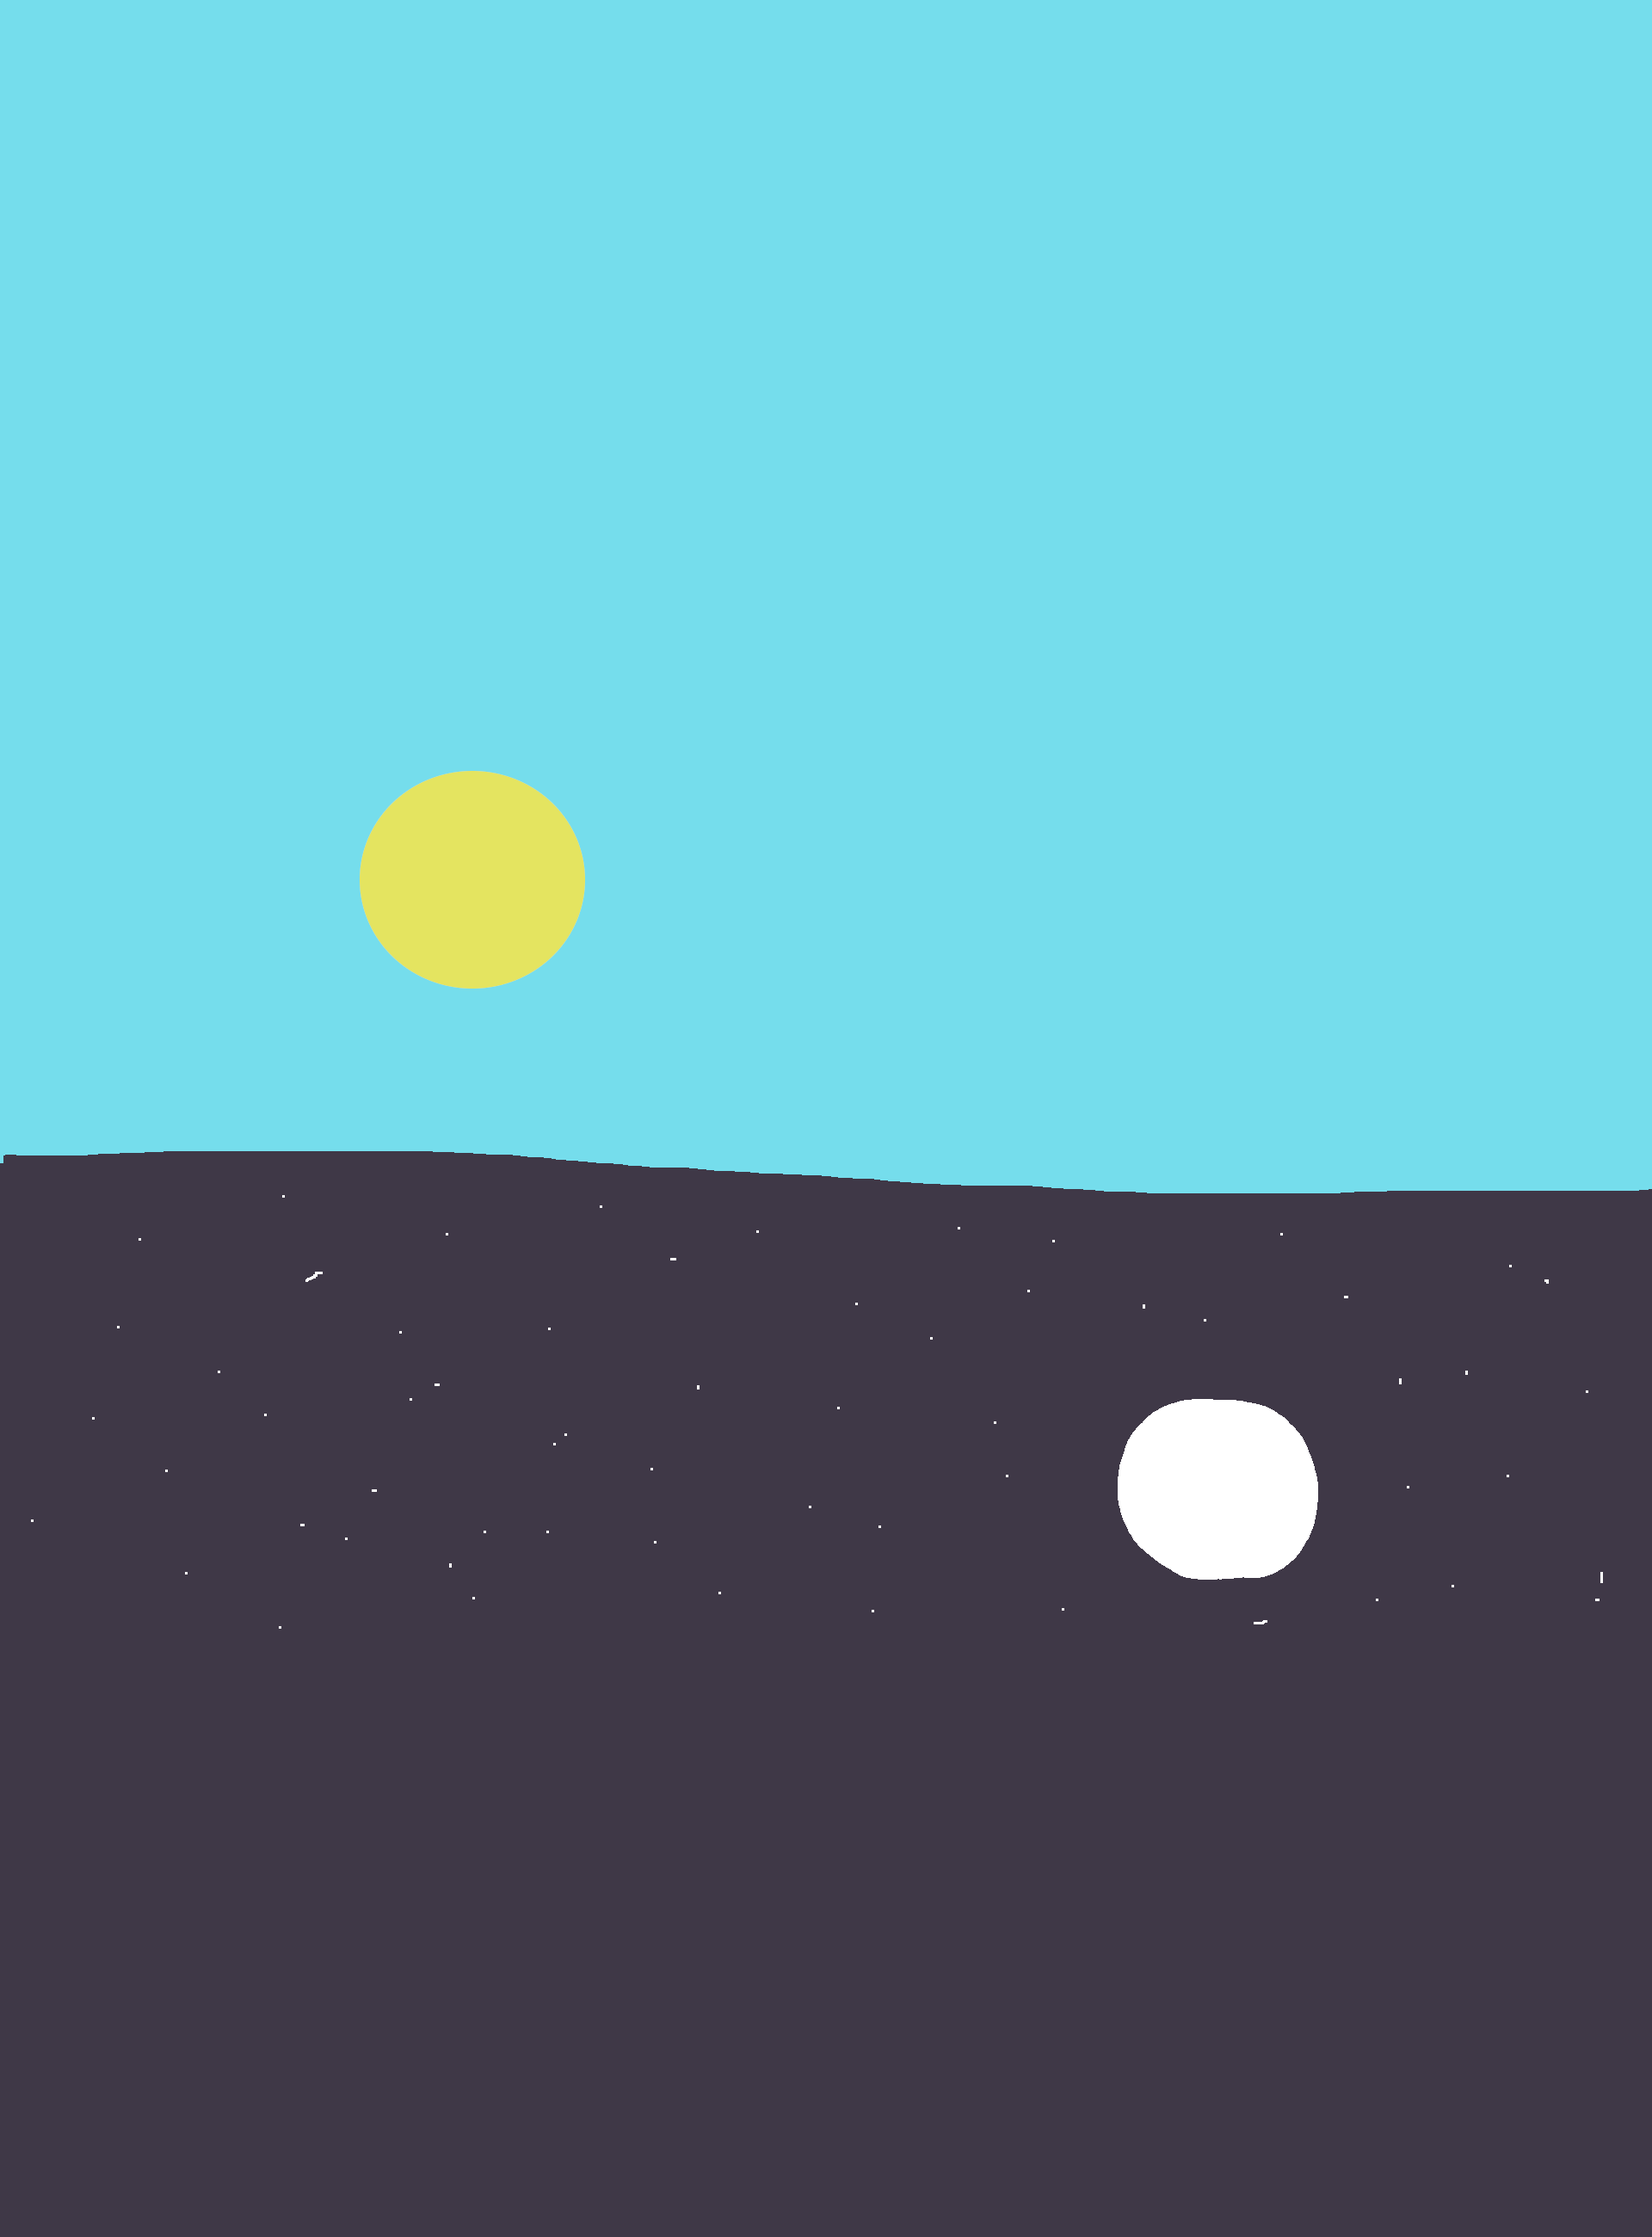
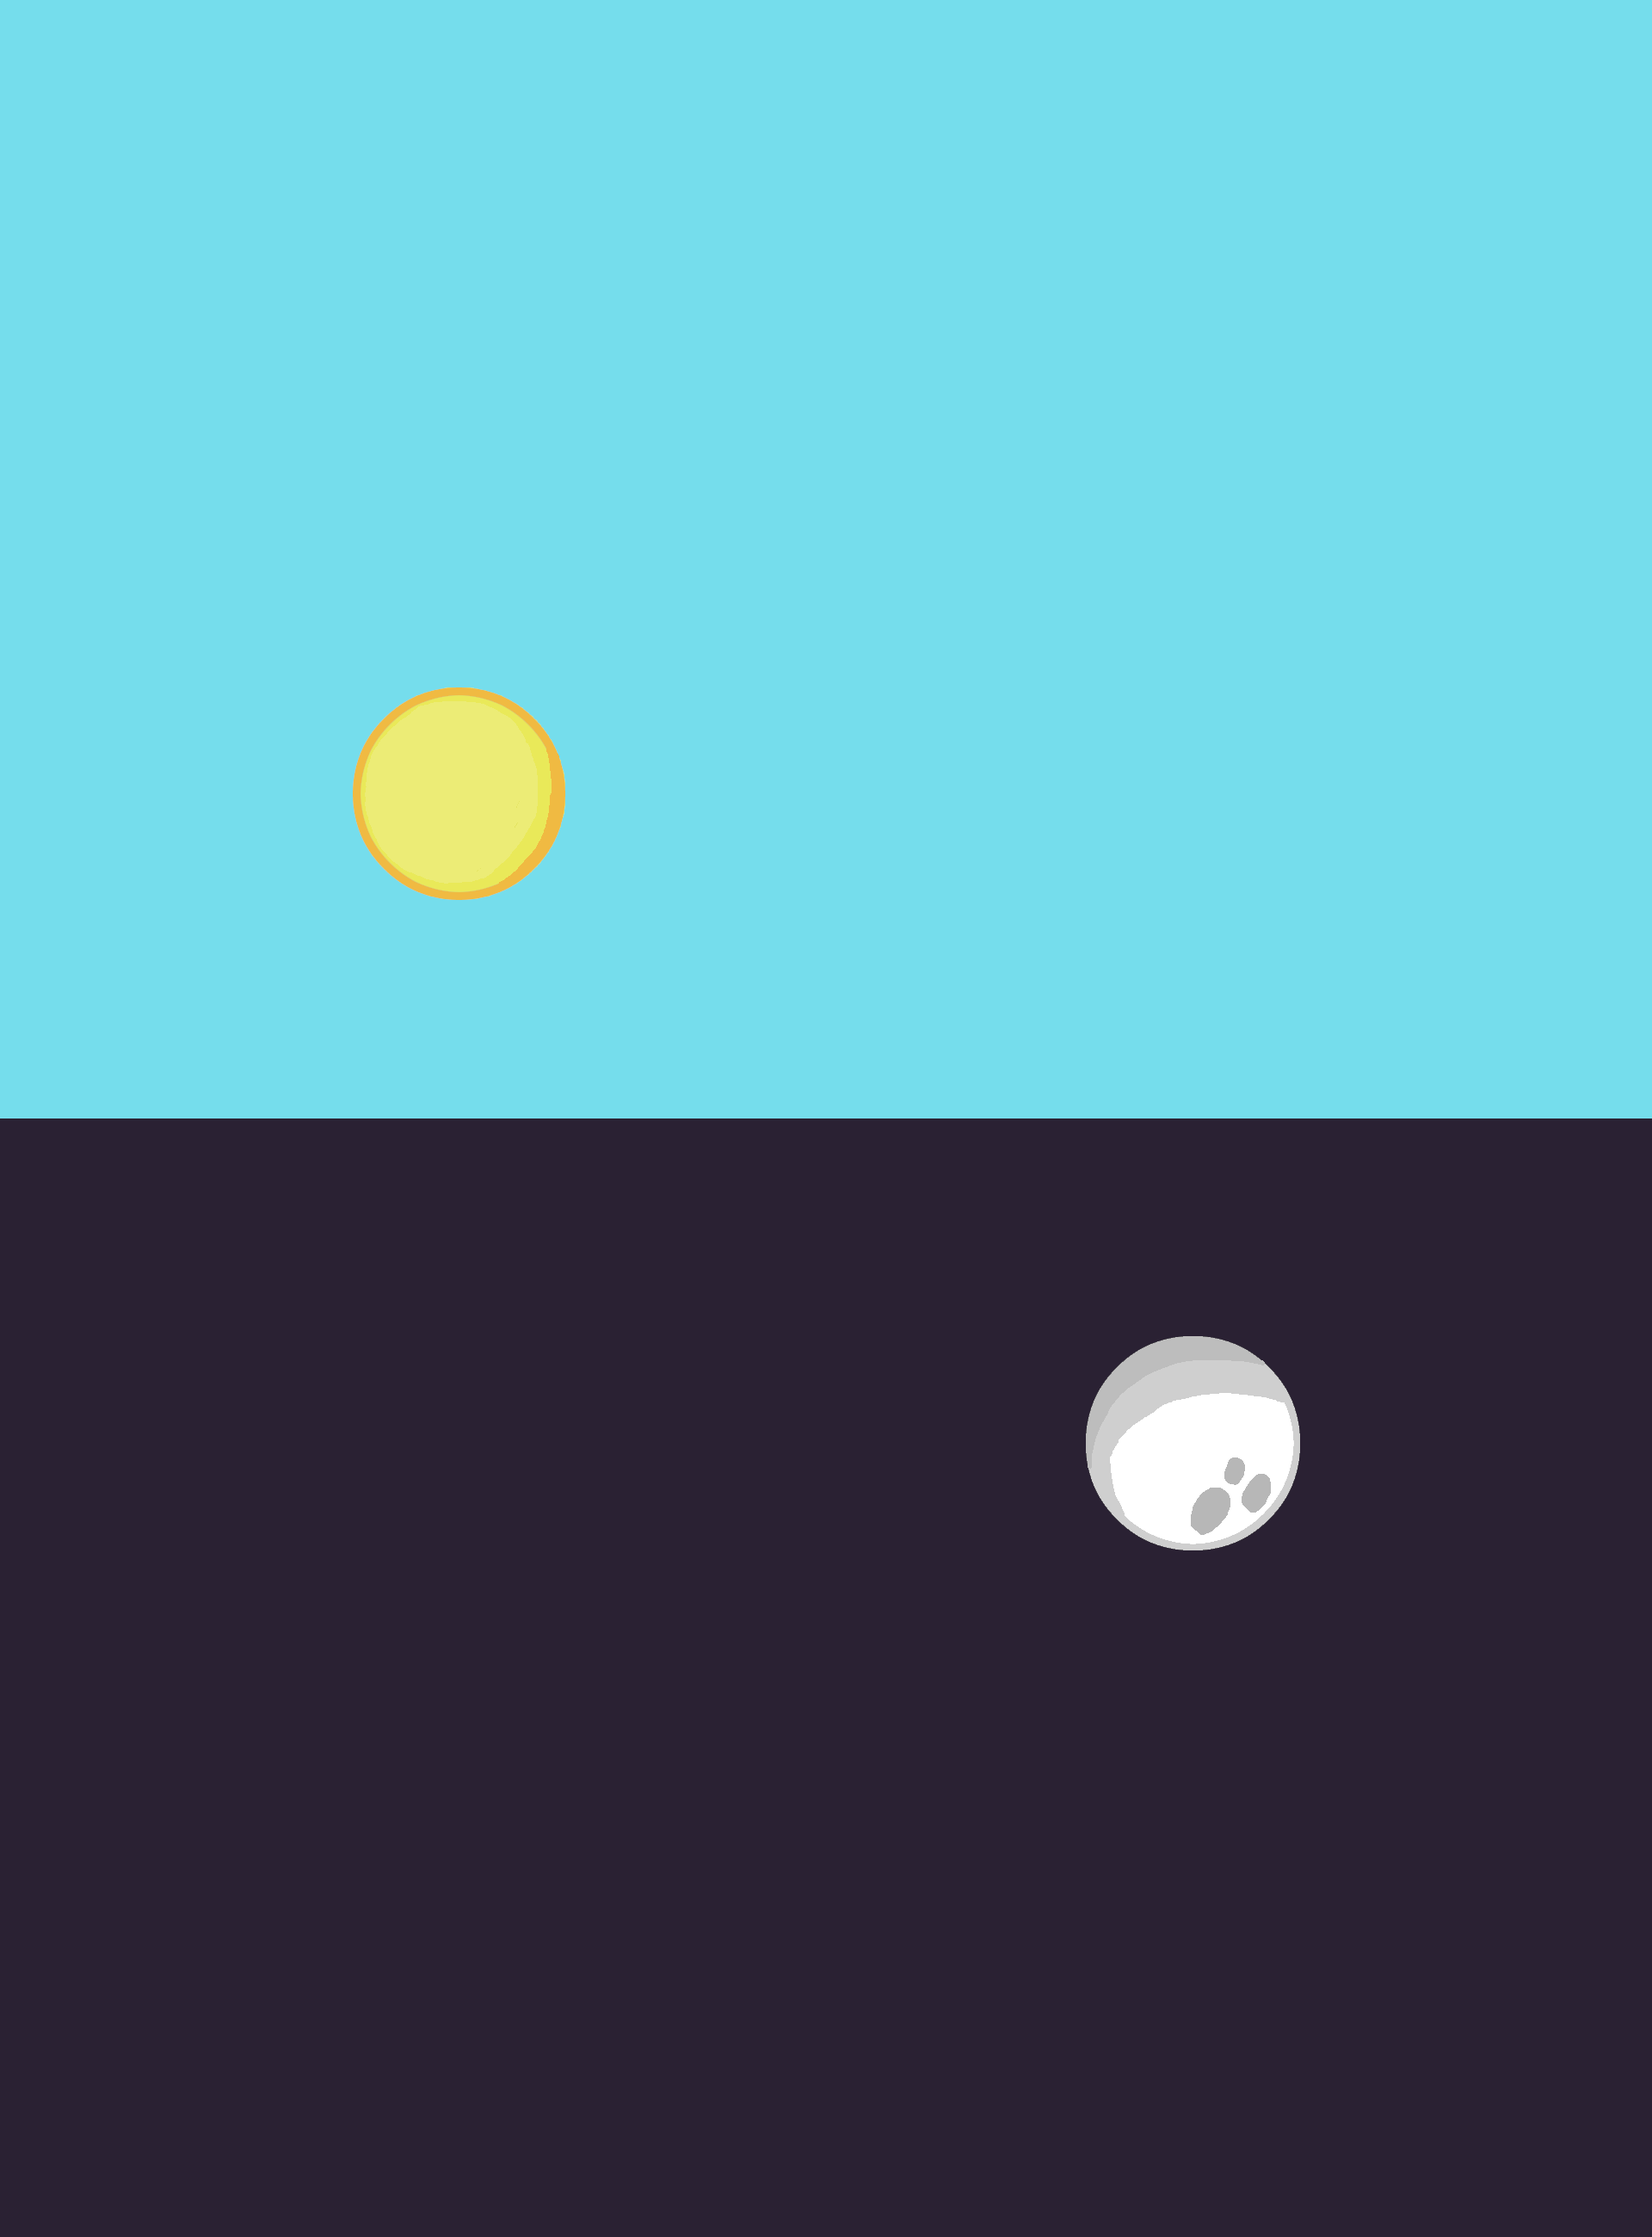
dark mode toggle button

Changed region(s): [[0.0, 0.4985, 1.0, 0.5608], [0.1875, 0.3115, 0.375, 0.4673], [0.6562, 0.5919, 0.8125, 0.7165]]

diff --git a/src/routes/+layout.svelte b/src/routes/+layout.svelte
@@ -2,11 +2,13 @@
     import { bounceOut } from "svelte/easing";
     import { elasticOut } from "svelte/easing";
     import { Tween } from "svelte/motion";
+    import { fade } from "svelte/transition";
     import NavBtn from './NavBtn.svelte';
 	let { children } = $props();
 
     const tabs = ["Main", "Socials", "Projects", "Art"];
     let darkMode = $state(false);
+    let canToggle = $state(true);
 
     
 
@@ -38,14 +40,23 @@
         filter: hue-rotate({tweenSpeen.current/3}deg) brightness({100-(tweenSpeen.current/540)*50}%);
     "/>
 
+    {#if tweenSpeen.current === 0 || tweenSpeen.current === 540 ? true : false}
+    <button id="darkModeToggle"
+     onclick={darkModeFlip}
+      style="filter: {darkMode ? "saturate(0%) contrast(75%) drop-shadow(0 0 5px #ffffff)" : "none"}" 
+      in:fade={{ duration: 2000, delay: 1000}}
+      aria-label="toggle dark mode">
+
+    </button>
+    {/if}
+
     <div id="mainContent">
         <nav id="pageNav">
             {#each tabs as tab}
-                <NavBtn {tab}/>
+                <NavBtn {tab} {darkMode}/>
             {/each}
         </nav>
-        <div id="pageContent">
-            <button onclick={darkModeFlip} disabled={tweenSpeen.current === 0 || tweenSpeen.current === 540 ? false : true}> FLIP TO DARK MODE</button>
+        <div id="pageContent" style="filter: drop-shadow(0 0 15px #00000069) {darkMode ? "" : "saturate(1.75)"}">
             {@render children()}
         </div>
     </div>
@@ -95,8 +106,21 @@
         margin: 0 auto;
         background-image: url("mainPlank.png");
         background-repeat: repeat-y;
-        filter: saturate(1.75) drop-shadow(0 0 15px #00000069);
         border: 10px solid #352721;
         border-radius: 1%;
+    }
+
+    #darkModeToggle {
+        background-color:#ffffff00;
+        background-image: url("darkModeText.png");
+        background-position: 1px 5px;
+        border: none;
+        width: 245px;
+        height: 245px;
+        border-radius: 100%;
+        cursor:pointer;
+        position: absolute;
+        left:407px;
+        top:59px;
     }
 </style>

diff --git a/src/routes/NavBtn.svelte b/src/routes/NavBtn.svelte
@@ -2,7 +2,7 @@
 <script>
     import { elasticOut } from "svelte/easing";
     import { Tween } from "svelte/motion";
-    let { tab } = $props();
+    let { tab, darkMode } = $props();
 
     let btnTween = new Tween(0, {
         duration: 2000,
@@ -16,7 +16,13 @@
 
 </script>
 
-<a href='/{tab === 'Main' ? '' : tab}' class="navBtn" onmouseenter={() => btnPopUp(25)} onmouseleave={() => btnPopUp(0)} style="transform:translateY(-{btnTween.current}px)">{tab}</a>
+<a href='/{tab === 'Main' ? '' : tab}' 
+    class="navBtn" onmouseenter={() => btnPopUp(25)} 
+    onmouseleave={() => btnPopUp(0)} 
+    style="transform:translateY(-{btnTween.current}px);
+        filter: drop-shadow(10px 10px 5px #0000004b) {darkMode ? "" : "saturate(1.75)"};">
+    {tab}
+</a>
 
 <style>
     .navBtn {
@@ -33,7 +39,6 @@
         background-image: url("btnWood.png");
         background-position: center;
         background-size: cover;
-        filter: saturate(1.75) drop-shadow(10px 10px 5px #0000004b);
         letter-spacing: -2px;
     }
 
